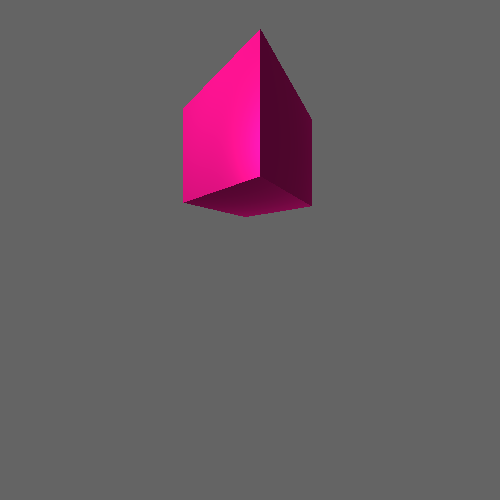
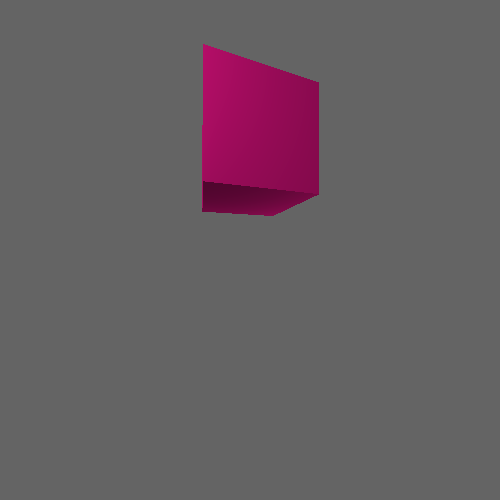
feat: finalização de algumas transformações

diff --git a/main.cpp b/main.cpp
@@ -24,7 +24,7 @@ int main() {
     Scene scene(O, viewport, canva);
 
     Cube *cube = new Cube(Color(1., 0.078, 0.576), Color(1., 0.078, 0.576), Color(1., 0.078, 0.576), 10);
-    cube->rotation_y(0.885398);
+    cube->rotation_y(0.285398);
     cube->transform();
     // cube->rotation_y(0.185398);
     cube->scaling(90);
